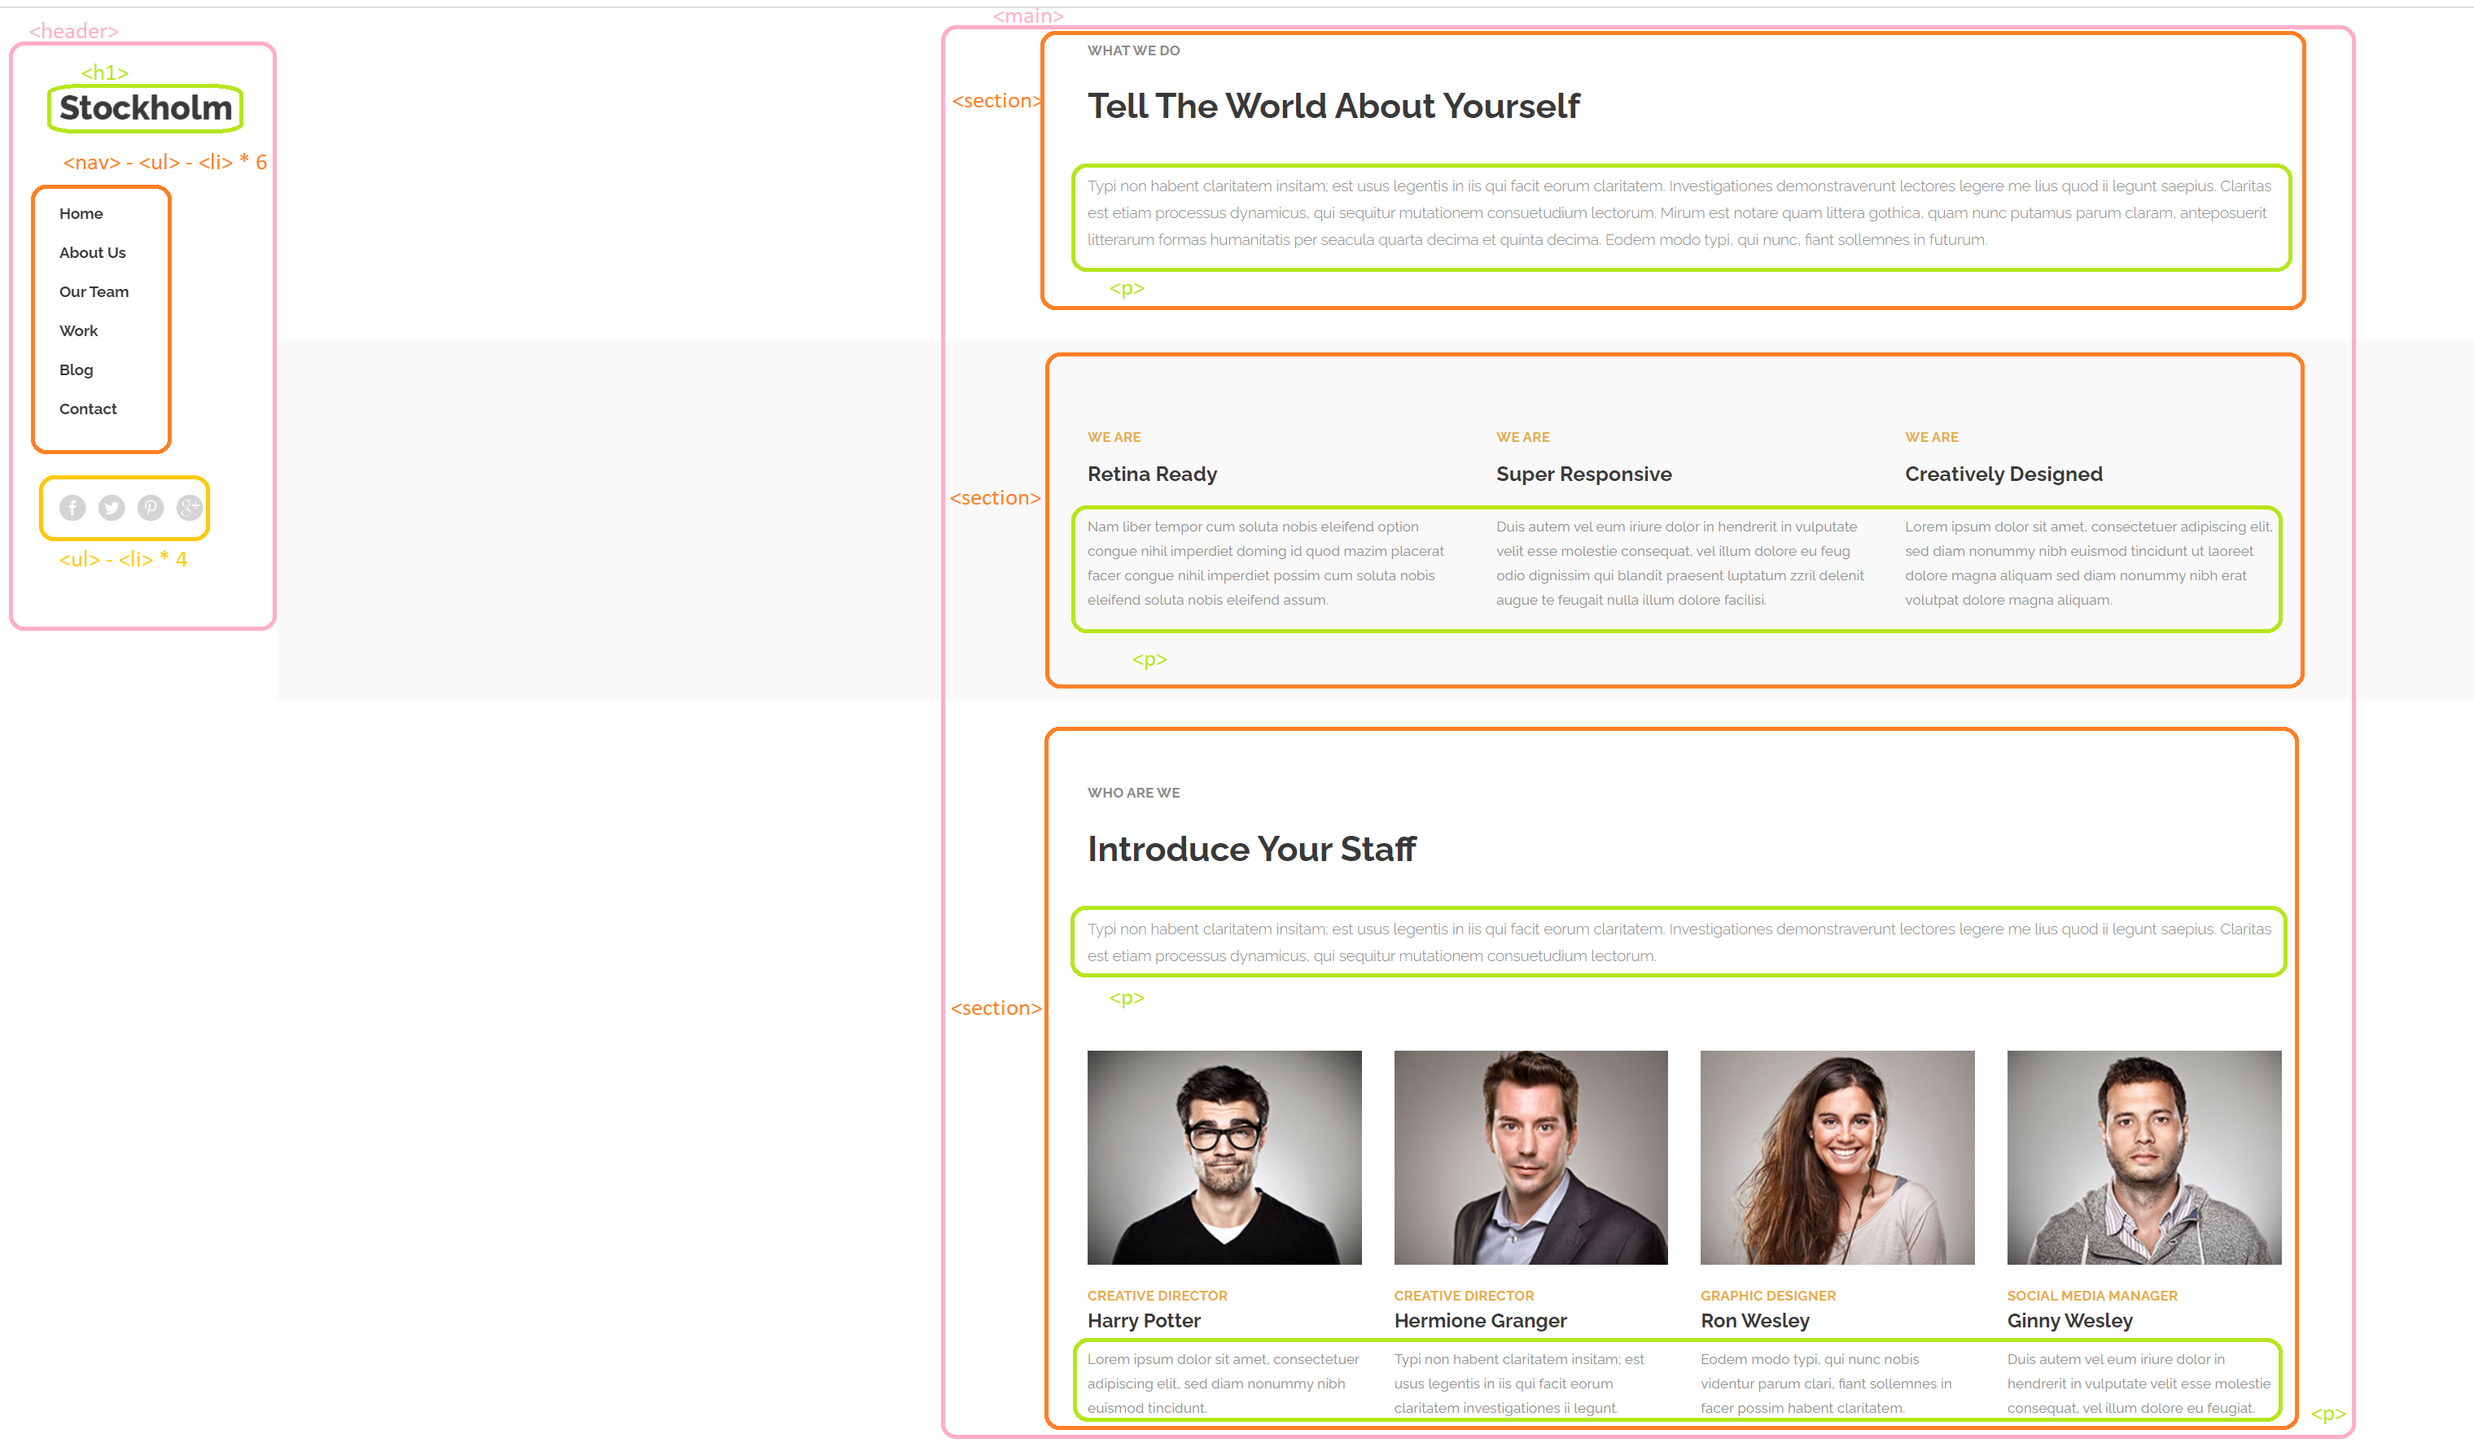
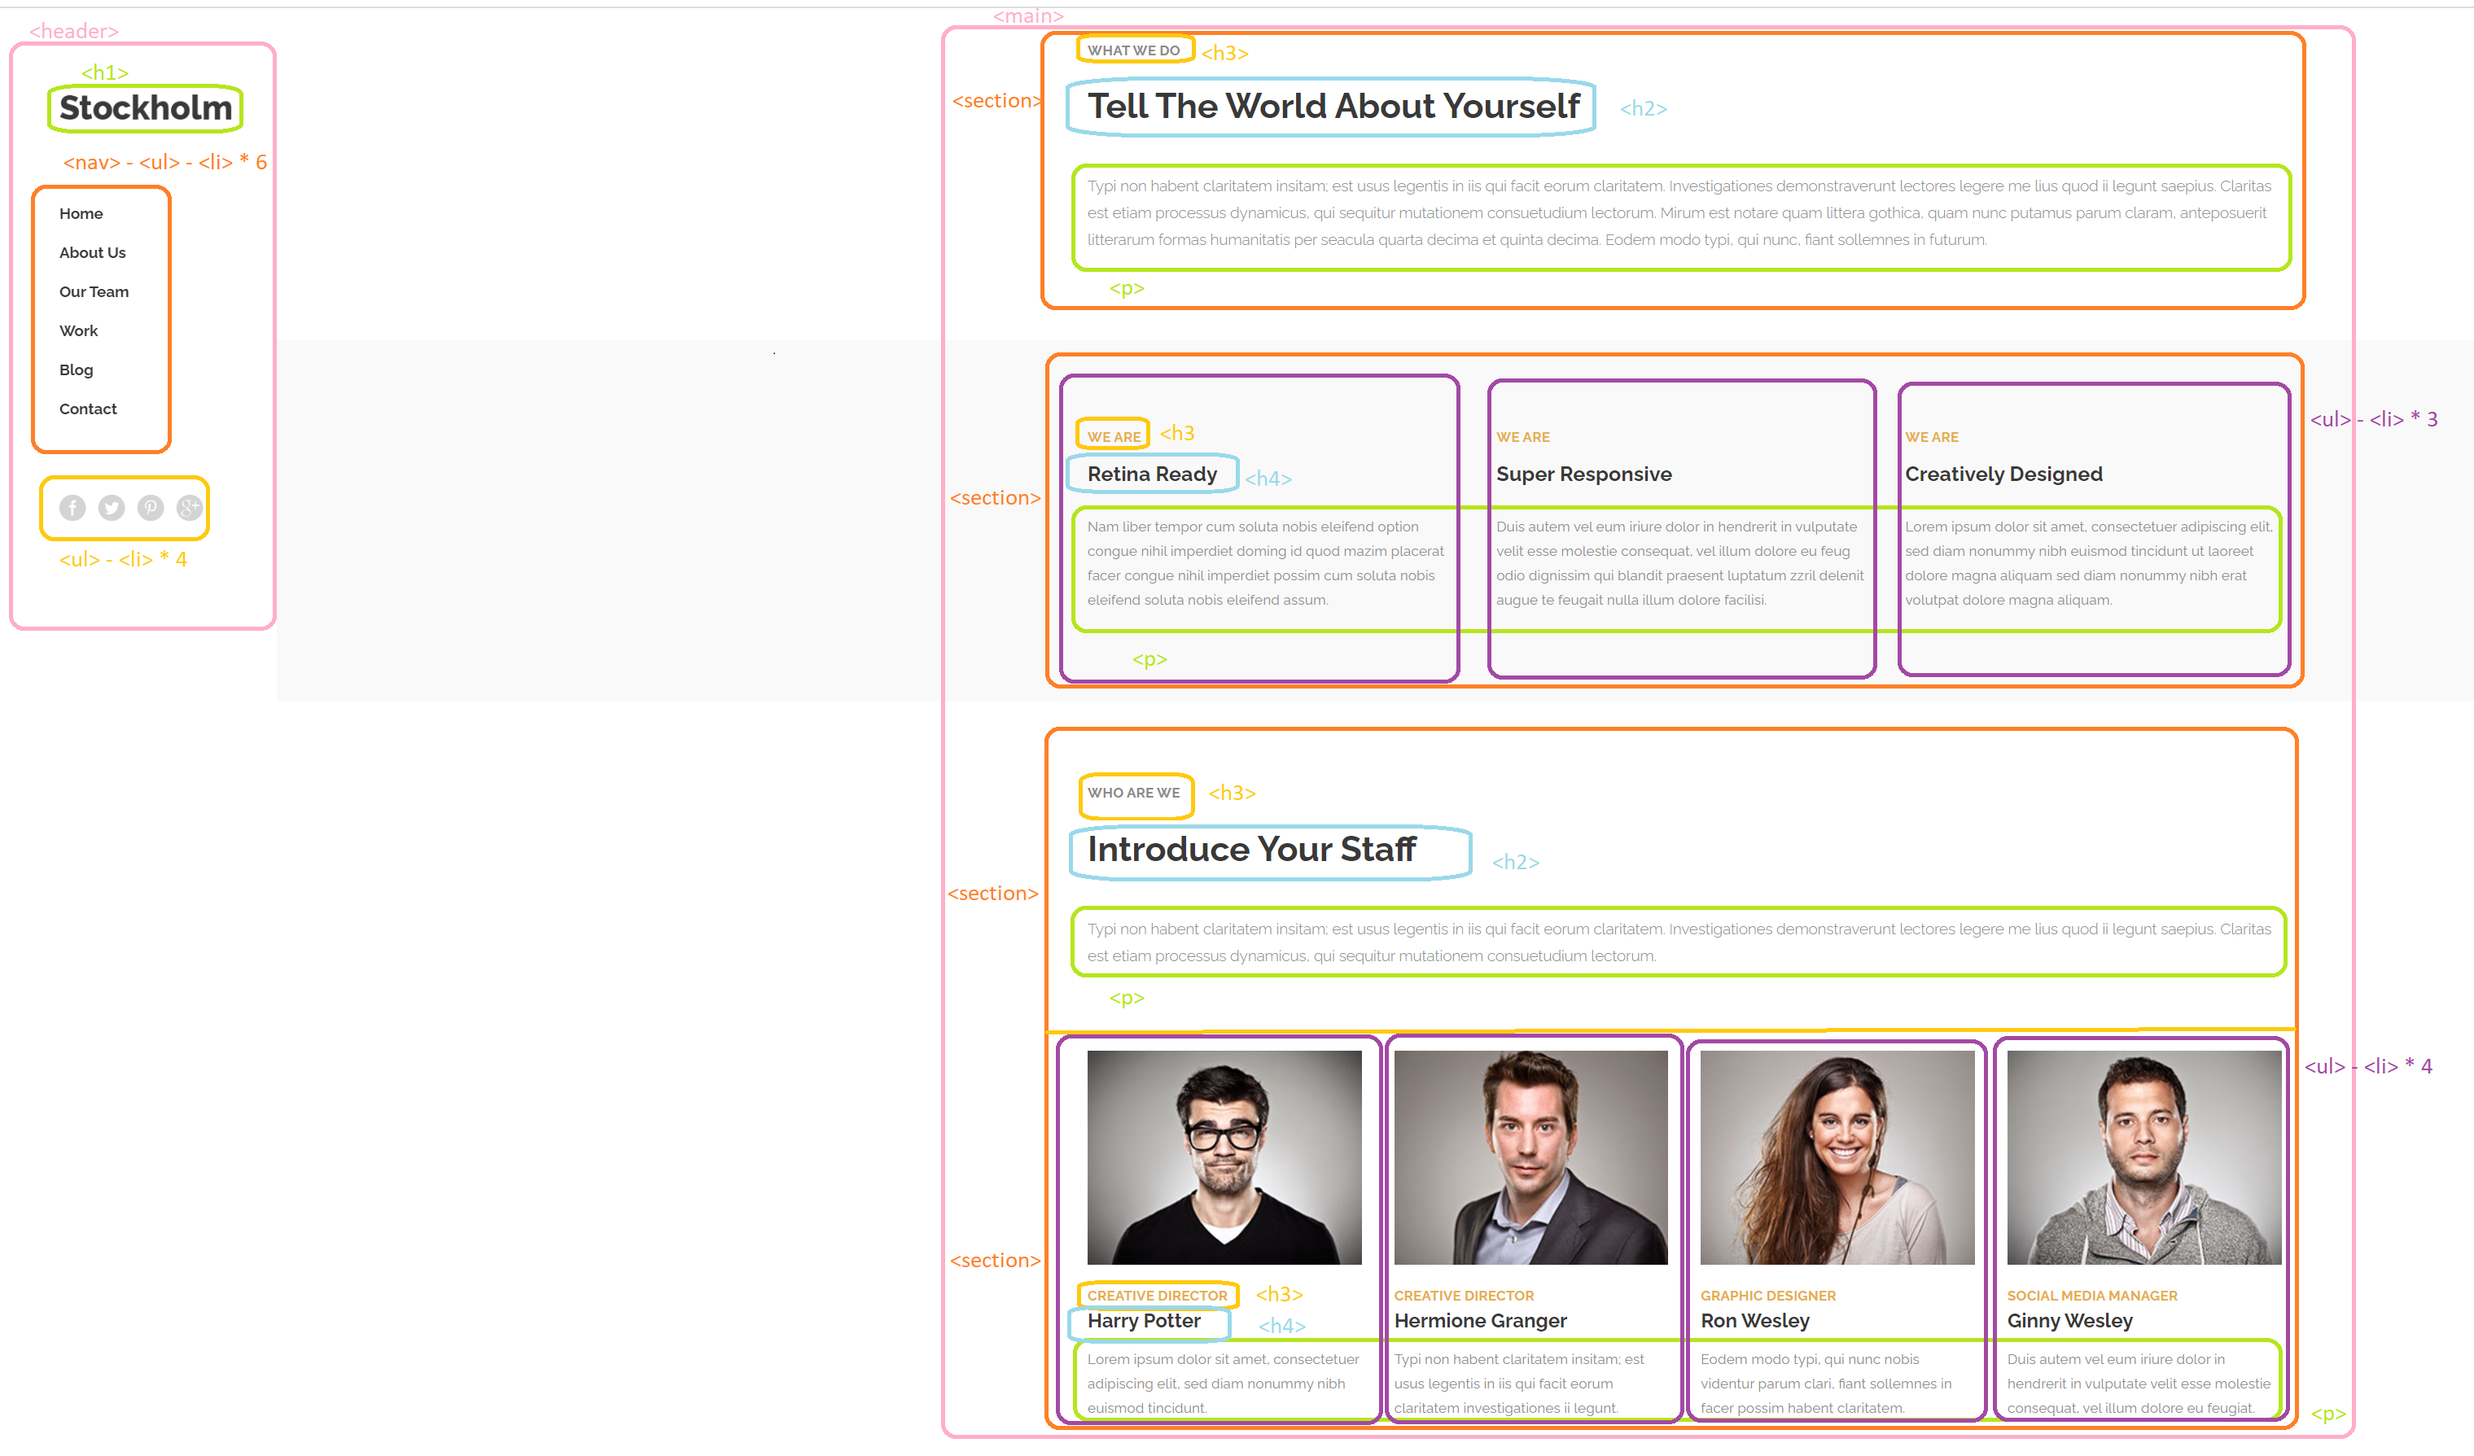
Clase 014: ejercicios

diff --git a/Ejercicios/20201023/index.html b/Ejercicios/20201023/index.html
@@ -10,40 +10,101 @@
     <!-- https://demo.select-themes.com/stockholm3/ -->
 </head>
 <body>
-    <header class="header">
-        <h1 class="header__titulo"><a href="#" title="Stockholm">Stockholm</a></h1>
-        <nav class="header__menu">
-            <ul class="header__listamenu">
-                <li class="header__listamenu-elemento"><a href="#" title="Home">Home</a></li>
-                <li class="header__listamenu-elemento"><a href="#" title="About Us">About Us</a></li>
-                <li class="header__listamenu-elemento"><a href="#" title="Our Team">Our Team</a></li>
-                <li class="header__listamenu-elemento"><a href="#" title="Work">Work</a></li>
-                <li class="header__listamenu-elemento"><a href="#" title="Blog">Blog</a></li>
-                <li class="header__listamenu-elemento"><a href="#" title="Contact">Contact</a></li>
+    <header>
+        <div class="lateral">
+            <h1 class="lateral__titulo"><a href="#" title="Stockholm">Stockholm</a></h1>
+            <nav class="lateral__menu">
+                <ul class="lateral__listamenu">
+                    <li class="lateral__listamenu-elemento"><a href="#" title="Home">Home</a></li>
+                    <li class="lateral__listamenu-elemento"><a href="#" title="About Us">About Us</a></li>
+                    <li class="lateral__listamenu-elemento"><a href="#" title="Our Team">Our Team</a></li>
+                    <li class="lateral__listamenu-elemento"><a href="#" title="Work">Work</a></li>
+                    <li class="lateral__listamenu-elemento"><a href="#" title="Blog">Blog</a></li>
+                    <li class="lateral__listamenu-elemento"><a href="#" title="Contact">Contact</a></li>
+                </ul>
+            </nav>
+            <ul class="lateral__rrss">
+                <li class="lateral__rrss-elemento">            
+                    <a href="http://www.facebook.com" title="Facebook" target="_blank" rel="noopener noreferrer">
+                        <i class="fab fa-facebook-f"></i>
+                    </a>
+                </li>
+                <li class="lateral__rrss-elemento">
+                    <a href="http://www.twitter.com" title="Twitter" target="_blank" rel="noopener noreferrer">
+                        <i class="fab fa-twitter"></i>
+                    </a>
+                </li>
+                <li class="lateral__rrss-elemento">
+                    <a href="http://www.pinterest.com" title="Pinterest" target="_blank" rel="noopener noreferrer">
+                        <i class="fab fa-pinterest"></i>
+                    </a>
+                </li>
+                <li class="lateral__rrss-elemento">
+                    <a href="http://www.google.com" title="YouTube" target="_blank" rel="noopener noreferrer">
+                        <i class="fab fa-google-plus"></i>
+                    </a>
+                </li>
             </ul>
-        </nav>
-        <ul class="header__rrss">
-            <li class="header__rrss-elemento">            
-                <a href="http://www.facebook.com" title="Facebook" target="_blank" rel="noopener noreferrer">
-                    <i class="fab fa-facebook-f"></i>
-                </a>
-            </li>
-            <li class="header__rrss-elemento">
-                <a href="http://www.twitter.com" title="Twitter" target="_blank" rel="noopener noreferrer">
-                    <i class="fab fa-twitter"></i>
-                </a>
-            </li>
-            <li class="header__rrss-elemento">
-                <a href="http://www.pinterest.com" title="Pinterest" target="_blank" rel="noopener noreferrer">
-                    <i class="fab fa-pinterest"></i>
-                </a>
-            </li>
-            <li class="header__rrss-elemento">
-                <a href="http://www.google.com" title="YouTube" target="_blank" rel="noopener noreferrer">
-                    <i class="fab fa-google-plus"></i>
-                </a>
-            </li>
-        </ul>
+        </div>
+        <div class="superior clear">
+            <a href="#" title="menú"><i class="fas fa-bars"></i></a>
+            <h1 class="superior__titulo"><a href="#" title="Stockholm">Stockholm</a></h1>
+        </div>
     </header>
+    <main>
+        <section class="seccion1">
+            <h3 class="seccion1__subtitulo">What We Do</h3>
+            <h2 class="seccion1__titulo">Tell The World About Yourself</h2>
+            <p class="seccion1__texto">Typi non habent claritatem insitam; est usus legentis in iis qui facit eorum claritatem. Investigationes demonstraverunt lectores legere me lius quod ii legunt saepius. Claritas est etiam processus dynamicus, qui sequitur mutationem consuetudium lectorum. Mirum est notare quam littera gothica, quam nunc putamus parum claram, anteposuerit litterarum formas humanitatis per seacula quarta decima et quinta decima. Eodem modo typi, qui nunc, fiant sollemnes in futurum.</p>
+        </section>
+        <section class="seccion2 clear">
+            <section class="seccion2__columna">
+                <h3 class="seccion2__columna-subtitulo">We Are</h3>
+                <h2 class="seccion2__columna-titulo">Retina Ready</h2>
+                <p class="seccion2__columna-texto">Nam liber tempor cum soluta nobis eleifend option congue nihil imperdiet doming id quod mazim placerat facer congue nihil imperdiet possim cum soluta nobis eleifend soluta nobis eleifend assum.</p>
+            </section>
+            <section class="seccion2__columna">
+                <h3 class="seccion2__columna-subtitulo">We Are</h3>
+                <h2 class="seccion2__columna-titulo">Super Responsive</h2>
+                <p class="seccion2__columna-texto">Duis autem vel eum iriure dolor in hendrerit in vulputate velit esse molestie consequat, vel illum dolore eu feug odio dignissim qui blandit praesent luptatum zzril delenit augue te feugait nulla illum dolore facilisi.</p>
+            </section>
+            <section class="seccion2__columna">
+                <h3 class="seccion2__columna-subtitulo">We Are</h3>
+                <h2 class="seccion2__columna-titulo">Creatively Designed</h2>
+                <p class="seccion2__columna-texto">Lorem ipsum dolor sit amet, consectetuer adipiscing elit, sed diam nonummy nibh euismod tincidunt ut laoreet dolore magna aliquam sed diam nonummy nibh erat volutpat dolore magna aliquam.</p>
+            </section>                        
+        </section>
+        <section class="seccion1">
+            <h3 class="seccion1__subtitulo">Who Are We</h3>
+            <h2 class="seccion1__titulo">Introduce Your Staff</h2>
+            <p class="seccion1__texto">Typi non habent claritatem insitam; est usus legentis in iis qui facit eorum claritatem. Investigationes demonstraverunt lectores legere me lius quod ii legunt saepius. Claritas est etiam processus dynamicus, qui sequitur mutationem consuetudium lectorum.</p>
+        </section>
+        <section class="seccion2 clear">
+            <section class="seccion2__columna seccion4__columna">
+                <img src="img/1-team.jpg" alt="imagen 1">
+                <h3 class="seccion2__columna-subtitulo">Creative director</h3>
+                <h2 class="seccion2__columna-titulo">Harry Potter</h2>
+                <p class="seccion2__columna-texto">Lorem ipsum dolor sit amet, consectetuer adipiscing elit, sed diam nonummy nibh euismod tincidunt.</p>
+            </section>
+            <section class="seccion2__columna seccion4__columna">
+                <img src="img/2-team.jpg" alt="imagen 2">
+                <h3 class="seccion2__columna-subtitulo">Creative director</h3>
+                <h2 class="seccion2__columna-titulo">Hermione Granger</h2>
+                <p class="seccion2__columna-texto">Typi non habent claritatem insitam; est usus legentis in iis qui facit eorum claritatem investigationes ii legunt.</p>
+            </section>
+            <section class="seccion2__columna seccion4__columna">
+                <img src="img/3-team.jpg" alt="imagen 3">
+                <h3 class="seccion2__columna-subtitulo">Graphic Designer</h3>
+                <h2 class="seccion2__columna-titulo">Ron Wesley</h2>
+                <p class="seccion2__columna-texto">Eodem modo typi, qui nunc nobis videntur parum clari, fiant sollemnes in facer possim habent claritatem.</p>
+            </section>
+            <section class="seccion2__columna seccion4__columna">
+                <img src="img/4-team.jpg" alt="imagen 4">
+                <h3 class="seccion2__columna-subtitulo">Social Media Manager</h3>
+                <h2 class="seccion2__columna-titulo">Ginny Wesley</h2>
+                <p class="seccion2__columna-texto">Duis autem vel eum iriure dolor in hendrerit in vulputate velit esse molestie consequat, vel illum dolore eu feugiat.</p>
+            </section>                     
+        </section>        
+    </main>
 </body>
 </html>

diff --git a/Ejercicios/20201023/css/style.css b/Ejercicios/20201023/css/style.css
@@ -58,45 +58,47 @@ body {
 
 /* css header */
 
-.header {
+header .lateral {
     width: 15%;
+    min-width: 250px;
     height: 100vh;
-    padding: 5rem 0 0 4rem;
+    padding: 4.5rem 0 0 3.5rem;
     background-color: #ffffff;
+    position: fixed;
 }
 
-.header__titulo {
+header .lateral__titulo {
     font-size: 2rem;
     font-weight: 800;
     text-align: left;
     color: #393939;
 }
 
-/* .header__titulo a {} */
+/* header .lateral__titulo a {} */
 
-.header__menu {
-    margin: 5rem 0;
+header .lateral__menu {
+    margin: 3.5rem 0;
 }
 
-/* .header__listamenu {} */
+/* header .lateral__listamenu {} */
 
-.header__listamenu-elemento {
+header .lateral__listamenu-elemento {
     font-size: 1rem;
     font-weight: 700;
-    line-height: 2rem;
+    line-height: 2.5rem;
     text-align: left;
     color: #393939;
 }
 
-/* .header__listamenu-elemento a {} */
+/* header .lateral__listamenu-elemento a {} */
 
-.header__listamenu-elemento a:hover {
+header .lateral__listamenu-elemento a:hover {
     color: #e6ae48;
 }
 
-/* .header__rrss {} */
+/* header .lateral__rrss {} */
 
-.header__rrss-elemento {
+header .lateral__rrss-elemento {
     display: inline-block;
     width: 1.5rem;
     margin-right: .5rem;
@@ -106,8 +108,147 @@ body {
     background-color: #d4d4d4;
 }
 
-/* .header__rrss-elemento a {} */
+/* header .lateral__rrss-elemento a {} */
 
-.header__rrss-elemento a:hover {
+header .lateral__rrss-elemento a:hover {
     background-color: #e6ae48;
+}
+
+
+header .superior {
+    width: 100%;
+    padding-top: 1.5rem;
+    background-color: #ffffff;
+    display: none;
+}
+
+header .superior .fa-bars {
+    width: 10%;
+    float: left;
+    padding: 1.5rem 0 0 3rem;
+}
+
+header .superior .fa-bars:hover {
+    color: #e6ae48;
+}
+
+header .superior__titulo {
+    width: 90%;
+    float: right;
+    font-size: 3rem;
+    font-weight: 900;
+    text-align: center;
+    color: #393939;
+}
+
+/* header .superior__titulo a {} */
+
+
+/* css main */
+
+main {
+    width: 100%;
+    max-width: 1920px;
+    height: 150vh;
+    padding-left: 15%;
+    background-color: #ffffff;
+}
+
+main .seccion1 {
+    width: 70%;
+    margin: 0 auto;
+    padding: 7vh 0;
+    text-align: left;
+}
+
+main .seccion1__subtitulo {
+    font-size: .8rem;
+    font-weight: 700;
+    color: #8d8d8d;
+    text-transform: uppercase;
+}
+
+main .seccion1__titulo {
+    font-size: 2rem;
+    font-weight: 700;
+    color: #393939;
+    margin: 2rem 0 3rem 0;
+}
+
+main .seccion1__texto {
+    font-size: .8rem;
+    font-weight: 400;
+    line-height: 1.5rem;
+    color: #8d8d8d;
+}
+
+main .seccion2 {
+    width: 70%;
+    margin: 0 auto;
+    padding: 7vh 0;
+    text-align: left;
+}
+
+main .seccion2__columna {
+    width: calc(100% / 3);
+    float: left;
+    margin: 0 auto;
+    text-align: left;
+    padding-right: 2rem;
+}
+
+main .seccion2__columna-subtitulo {
+    font-size: .8rem;
+    font-weight: 700;
+    color: #e6ae48;
+    text-transform: uppercase;
+}
+
+main .seccion2__columna-titulo {
+    font-size: 1.2rem;
+    font-weight: 700;
+    color: #393939;
+    margin: 1rem 0 2rem 0;
+}
+
+main .seccion2__columna-texto {
+    font-size: .8rem;
+    font-weight: 400;
+    line-height: 1.5rem;
+    color: #8d8d8d;
+}
+
+
+main .seccion4__columna {
+    width: calc(100% / 4);
+    float: left;
+    margin: 0 auto;
+    text-align: left;
+    padding-right: 2rem;
+}
+
+main .seccion4__columna img {
+    padding-bottom: 1rem;
+}
+
+main .seccion4__columna img:hover {
+    background-color: #e6ae48;
+}
+
+
+/* css responsive */
+
+@media screen and (max-width:900px) {
+
+    header .lateral {
+        display: none;
+    }
+
+    header .superior {
+        display: block;
+    }
+
+    main .seccion1, main .seccion2 {
+        width: 100%;
+    }
 }
